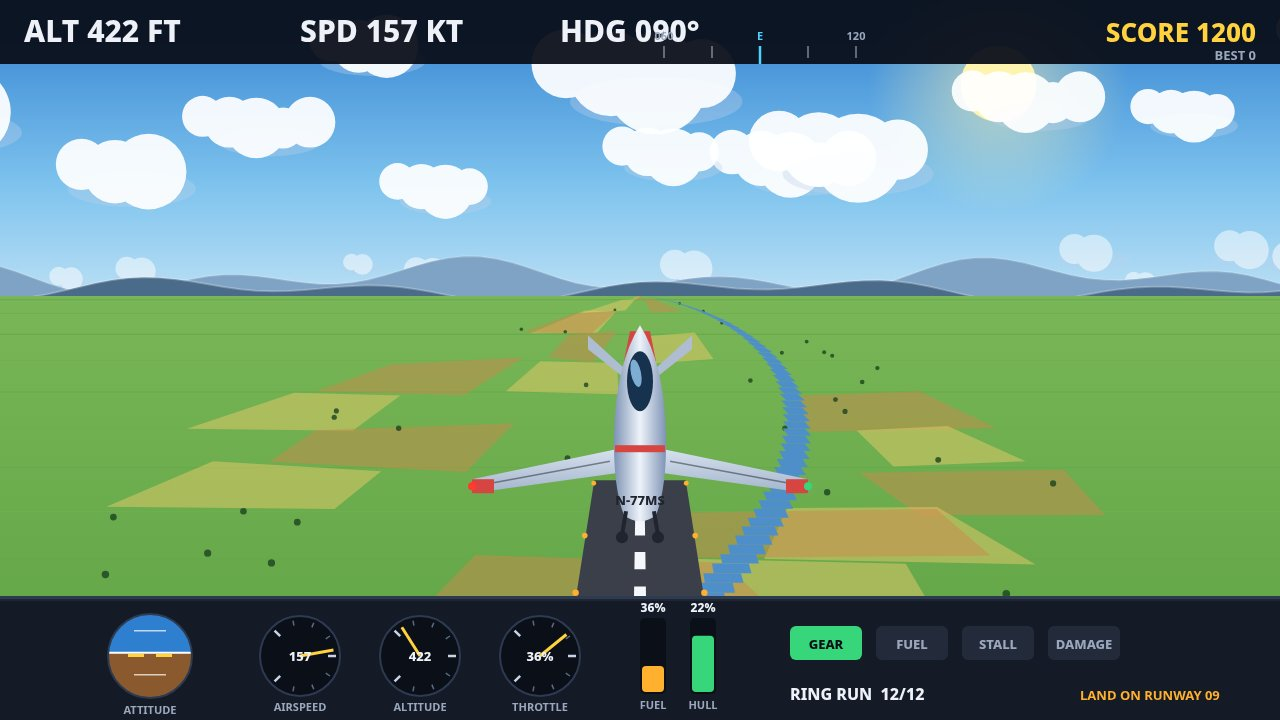
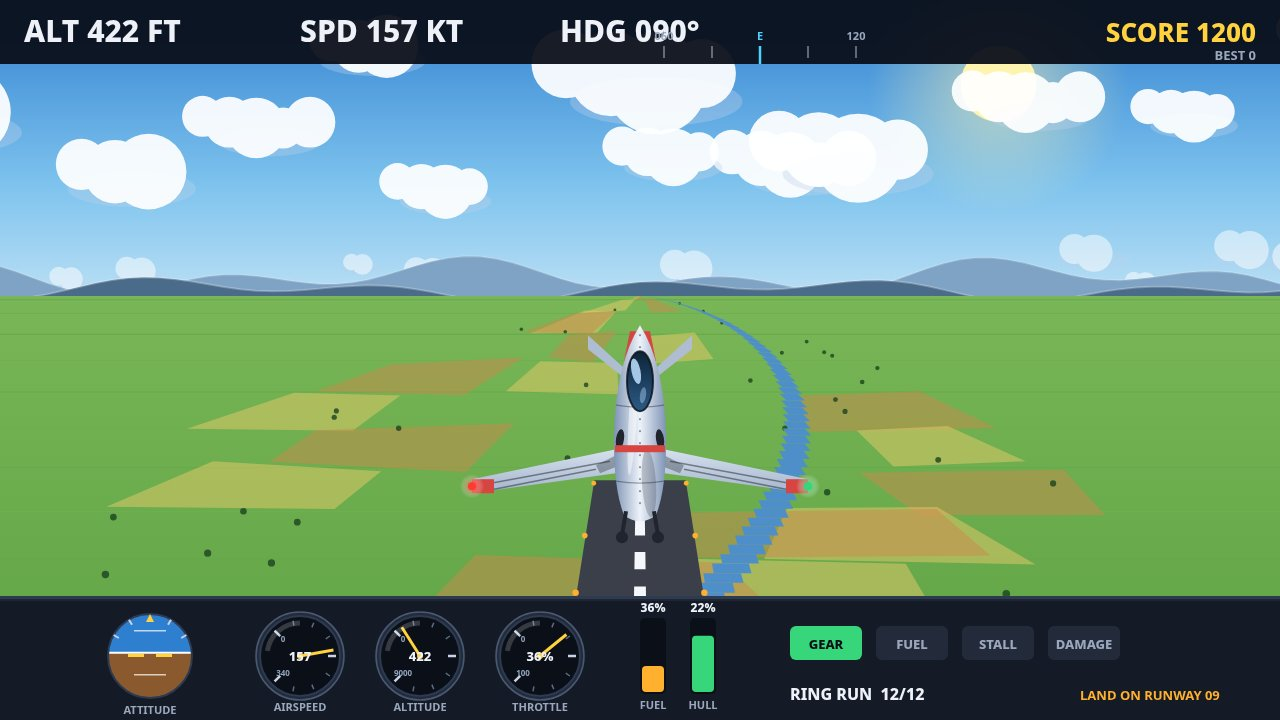
v4: built aircraft (panel lines, rivets, framed canopy, nav lights, fin 77) + glass dials with numerals and bank ticks

diff --git a/game/src/render.js b/game/src/render.js
@@ -489,7 +489,8 @@ export function createRenderer(canvas) {
     ctx.translate(cx, cy);
     ctx.rotate(bank * 0.9);
     if (state.invulnerable > 0 && Math.floor(state.time * 12) % 2 === 0) ctx.globalAlpha = 0.45;
-    // Wings: shaded, with a dark aileron line and red tips.
+    // Wings: shaded, with aileron and flap lines, red tips and a glowing
+    // nav light. A dark root fairing blends each wing into the fuselage.
     for (const side of [-1, 1]) {
       const wing = ctx.createLinearGradient(0, -8, 0, 44);
       wing.addColorStop(0, '#dbe5f2');
@@ -508,8 +509,27 @@ export function createRenderer(canvas) {
       ctx.moveTo(side * 30, 8);
       ctx.lineTo(side * 160, 32);
       ctx.stroke();
+      ctx.beginPath();
+      ctx.moveTo(side * 44, 16);
+      ctx.lineTo(side * 156, 38);
+      ctx.stroke();
+      ctx.fillStyle = 'rgba(32,36,46,0.35)';
+      ctx.beginPath();
+      ctx.moveTo(side * 12, -4);
+      ctx.lineTo(side * 44, 12);
+      ctx.lineTo(side * 40, 20);
+      ctx.lineTo(side * 10, 8);
+      ctx.closePath();
+      ctx.fill();
       ctx.fillStyle = '#d64541';
       ctx.fillRect(side > 0 ? 146 : -168, 26, 22, 14);
+      const navGlow = ctx.createRadialGradient(side * 168, 33, 1, side * 168, 33, 12);
+      navGlow.addColorStop(0, side < 0 ? 'rgba(255,59,48,0.8)' : 'rgba(55,214,122,0.8)');
+      navGlow.addColorStop(1, 'rgba(255,255,255,0)');
+      ctx.fillStyle = navGlow;
+      ctx.beginPath();
+      ctx.arc(side * 168, 33, 12, 0, Math.PI * 2);
+      ctx.fill();
     }
     // Tail.
     ctx.fillStyle = '#aebdd2';
@@ -535,6 +555,10 @@ export function createRenderer(canvas) {
     ctx.lineTo(-10, -122);
     ctx.closePath();
     ctx.fill();
+    ctx.fillStyle = '#eef3fa';
+    ctx.font = `800 13px ${FONT}`;
+    ctx.textAlign = 'center';
+    ctx.fillText('77', 0, -100);
     // Engine exhaust glow, stronger at full throttle.
     if (state.throttle > 0.6) {
       const glow = ctx.createRadialGradient(0, 66, 2, 0, 66, 22);
@@ -545,7 +569,8 @@ export function createRenderer(canvas) {
       ctx.arc(0, 66, 22, 0, Math.PI * 2);
       ctx.fill();
     }
-    // Fuselage.
+    // Fuselage: shaded metal with a spine highlight, a belly shadow,
+    // panel lines, rivets along the spine, and intake scoops.
     const body = ctx.createLinearGradient(-26, 0, 26, 0);
     body.addColorStop(0, '#7e93b5');
     body.addColorStop(0.5, '#eef3fa');
@@ -559,22 +584,58 @@ export function createRenderer(canvas) {
     ctx.quadraticCurveTo(-27, 34, -26, -20);
     ctx.quadraticCurveTo(-24, -90, 0, -128);
     ctx.fill();
-    // Canopy.
-    ctx.fillStyle = '#17324e';
+    ctx.fillStyle = 'rgba(255,255,255,0.5)';
+    ctx.beginPath();
+    ctx.ellipse(-7, -40, 4, 62, 0.06, 0, Math.PI * 2);
+    ctx.fill();
+    ctx.fillStyle = 'rgba(32,36,46,0.22)';
+    ctx.beginPath();
+    ctx.ellipse(9, 30, 7, 34, -0.06, 0, Math.PI * 2);
+    ctx.fill();
+    // Panel lines across the fuselage.
+    ctx.strokeStyle = 'rgba(32,36,46,0.4)';
+    ctx.lineWidth = 1.2;
+    for (const py of [-48, -8, 28]) {
+      ctx.beginPath();
+      ctx.moveTo(-24, py);
+      ctx.quadraticCurveTo(0, py + 4, 24, py);
+      ctx.stroke();
+    }
+    // Rivets along the spine.
+    ctx.fillStyle = 'rgba(32,36,46,0.45)';
+    for (let ry = -118; ry <= 56; ry += 12) {
+      ctx.beginPath();
+      ctx.arc(0, ry, 1.1, 0, Math.PI * 2);
+      ctx.fill();
+    }
+    // Intake scoops.
+    ctx.fillStyle = '#20242e';
+    ctx.beginPath();
+    ctx.ellipse(-20, -14, 4, 10, 0.15, 0, Math.PI * 2);
+    ctx.ellipse(20, -14, 4, 10, -0.15, 0, Math.PI * 2);
+    ctx.fill();
+    // Canopy: framed, tinted, with a long reflection.
+    const canopy = ctx.createLinearGradient(0, -102, 0, -42);
+    canopy.addColorStop(0, '#0e2438');
+    canopy.addColorStop(1, '#2c5a86');
+    ctx.fillStyle = canopy;
     ctx.beginPath();
     ctx.ellipse(0, -72, 13, 30, 0, 0, Math.PI * 2);
     ctx.fill();
-    ctx.fillStyle = 'rgba(160,215,255,0.75)';
+    ctx.strokeStyle = 'rgba(10,14,24,0.8)';
+    ctx.lineWidth = 2;
+    ctx.stroke();
+    ctx.fillStyle = 'rgba(190,225,255,0.85)';
     ctx.beginPath();
-    ctx.ellipse(-4, -80, 5, 14, -0.2, 0, Math.PI * 2);
+    ctx.ellipse(-4, -82, 4.5, 13, -0.2, 0, Math.PI * 2);
     ctx.fill();
-    // Stripe + registration.
+    ctx.fillStyle = 'rgba(190,225,255,0.4)';
+    ctx.beginPath();
+    ctx.ellipse(3, -58, 3, 8, 0.15, 0, Math.PI * 2);
+    ctx.fill();
+    // Stripe.
     ctx.fillStyle = '#d64541';
     ctx.fillRect(-25, -8, 50, 7);
-    ctx.fillStyle = '#20242e';
-    ctx.font = `800 13px ${FONT}`;
-    ctx.textAlign = 'center';
-    ctx.fillText('N-77MS', 0, 52);
     // Nav lights.
     ctx.fillStyle = '#ff3b30';
     ctx.beginPath();
@@ -621,7 +682,15 @@ export function createRenderer(canvas) {
     text(ctx, label, x + w / 2, y + h + 15, 11, PALETTE.muted, 'center', 700);
   }
 
-  function dial(ctx, cx, cy, r, frac, label, value) {
+  function dial(ctx, cx, cy, r, frac, label, value, scale) {
+    // Bezel: a raised metal ring around the glass.
+    ctx.fillStyle = '#232b3a';
+    ctx.beginPath();
+    ctx.arc(cx, cy, r + 4, 0, Math.PI * 2);
+    ctx.fill();
+    ctx.strokeStyle = '#4a5a75';
+    ctx.lineWidth = 1.5;
+    ctx.stroke();
     ctx.fillStyle = '#0b0f18';
     ctx.beginPath();
     ctx.arc(cx, cy, r, 0, Math.PI * 2);
@@ -629,7 +698,8 @@ export function createRenderer(canvas) {
     ctx.strokeStyle = PALETTE.panelEdge;
     ctx.lineWidth = 2;
     ctx.stroke();
-    // Tick marks around the sweep, major every quarter.
+    // Tick marks around the sweep, major every quarter, with numerals
+    // at min, mid and max so the dial reads like a real instrument.
     for (let i = 0; i <= 8; i += 1) {
       const a = -Math.PI * 0.75 + (i / 8) * Math.PI * 1.5;
       const major = i % 4 === 0;
@@ -639,6 +709,11 @@ export function createRenderer(canvas) {
       ctx.moveTo(cx + Math.cos(a) * (r - 4), cy + Math.sin(a) * (r - 4));
       ctx.lineTo(cx + Math.cos(a) * (r - (major ? 12 : 9)), cy + Math.sin(a) * (r - (major ? 12 : 9)));
       ctx.stroke();
+      if (scale && i % 8 === 0) {
+        const nx = cx + Math.cos(a) * (r - 16);
+        const ny = cy + Math.sin(a) * (r - 16) + 3;
+        text(ctx, scale[i / 8], nx, ny, 8, '#8fa3bd', 'center', 700);
+      }
     }
     const a = -Math.PI * 0.75 + frac * Math.PI * 1.5;
     ctx.strokeStyle = '#ffd23e';
@@ -646,6 +721,16 @@ export function createRenderer(canvas) {
     ctx.beginPath();
     ctx.moveTo(cx, cy);
     ctx.lineTo(cx + Math.cos(a) * (r - 6), cy + Math.sin(a) * (r - 6));
+    ctx.stroke();
+    ctx.fillStyle = '#ffd23e';
+    ctx.beginPath();
+    ctx.arc(cx, cy, 3, 0, Math.PI * 2);
+    ctx.fill();
+    // Glass glare: a soft arc at the top-left of the dial.
+    ctx.strokeStyle = 'rgba(255,255,255,0.18)';
+    ctx.lineWidth = 5;
+    ctx.beginPath();
+    ctx.arc(cx, cy, r - 7, Math.PI * 1.05, Math.PI * 1.5);
     ctx.stroke();
     text(ctx, label, cx, cy + r + 15, 11, PALETTE.muted, 'center', 700);
     text(ctx, value, cx, cy + 5, 13, PALETTE.text, 'center', 800);
@@ -688,14 +773,31 @@ export function createRenderer(canvas) {
     ctx.beginPath();
     ctx.arc(hx, hy, 42, 0, Math.PI * 2);
     ctx.stroke();
+    // Bank-angle ticks around the rim.
+    ctx.strokeStyle = '#c7d3e6';
+    ctx.lineWidth = 2;
+    for (const deg of [-60, -30, 30, 60]) {
+      const a = -Math.PI / 2 + (deg * Math.PI) / 180;
+      ctx.beginPath();
+      ctx.moveTo(hx + Math.cos(a) * 42, hy + Math.sin(a) * 42);
+      ctx.lineTo(hx + Math.cos(a) * 36, hy + Math.sin(a) * 36);
+      ctx.stroke();
+    }
+    ctx.fillStyle = '#ffd23e';
+    ctx.beginPath();
+    ctx.moveTo(hx, hy - 42);
+    ctx.lineTo(hx - 4, hy - 34);
+    ctx.lineTo(hx + 4, hy - 34);
+    ctx.closePath();
+    ctx.fill();
     ctx.fillStyle = '#ffd23e';
     ctx.fillRect(hx - 22, hy - 2, 16, 3);
     ctx.fillRect(hx + 6, hy - 2, 16, 3);
     text(ctx, 'ATTITUDE', hx, hy + 58, 11, PALETTE.muted, 'center', 700);
     // Dials.
-    dial(ctx, 300, 656, 40, state.speed / 340, 'AIRSPEED', `${Math.round(state.speed)}`);
-    dial(ctx, 420, 656, 40, state.alt, 'ALTITUDE', `${Math.round(state.alt * 9000)}`);
-    dial(ctx, 540, 656, 40, state.throttle, 'THROTTLE', `${Math.round(state.throttle * 100)}%`);
+    dial(ctx, 300, 656, 40, state.speed / 340, 'AIRSPEED', `${Math.round(state.speed)}`, ['0', '340']);
+    dial(ctx, 420, 656, 40, state.alt, 'ALTITUDE', `${Math.round(state.alt * 9000)}`, ['0', '9000']);
+    dial(ctx, 540, 656, 40, state.throttle, 'THROTTLE', `${Math.round(state.throttle * 100)}%`, ['0', '100']);
     // Fuel + damage gauges.
     gauge(ctx, 640, 618, 26, 76, state.fuel / 100, state.fuel < 20 ? PALETTE.red : PALETTE.amber, 'FUEL');
     gauge(ctx, 690, 618, 26, 76, 1 - state.damage / 100, state.damage > 70 ? PALETTE.red : PALETTE.green, 'HULL');
